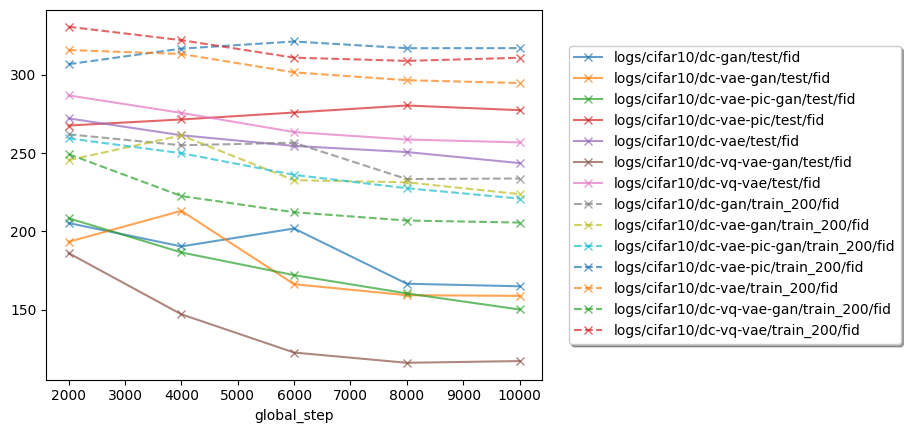
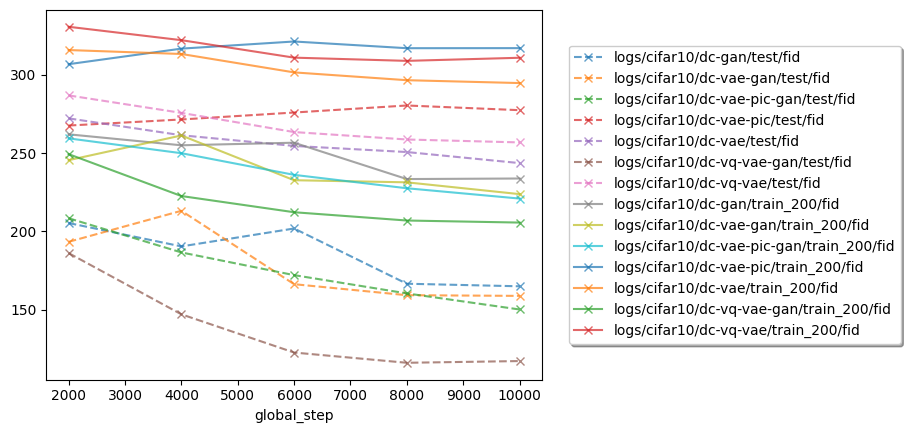
Adjust

diff --git a/src/plot.py b/src/plot.py
@@ -53,7 +53,7 @@ def plot(paths, args):
 
             names = gdf["name"].unique()
             assert len(names) == 1, "One group should have at most 1 name."
-            linestyle = dict(train_200="--", test="-").get(names[0], "-.")
+            linestyle = dict(train_200="-", test="--").get(names[0], "-.")
 
             gdf.plot(
                 x="global_step",
